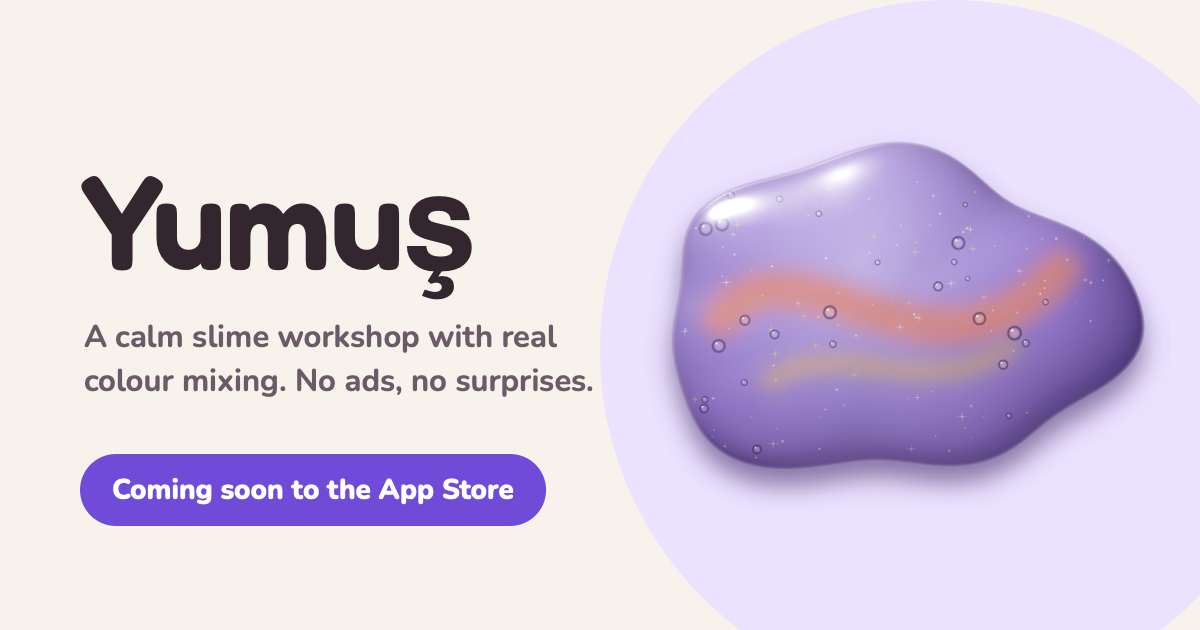
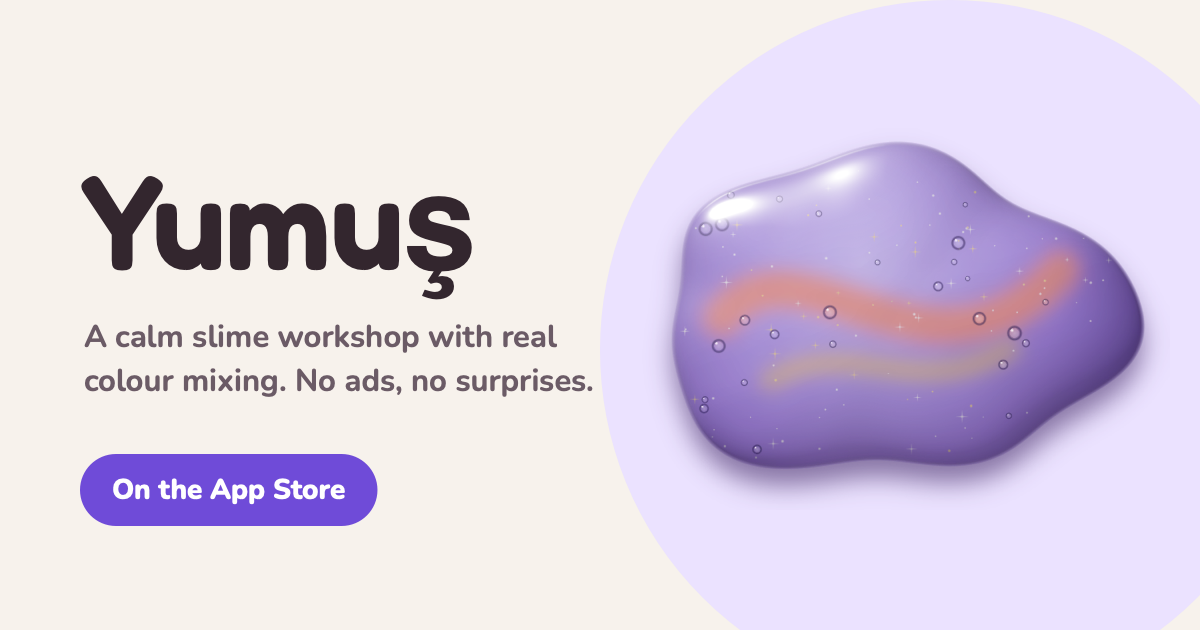
feat(site): App Store bağlantısı (Yumuş yayında), TestFlight notları kaldırıldı, OG rozeti

Changed region(s): [[0.0925, 0.6937, 0.4625, 0.8444]]

diff --git a/en/index.html b/en/index.html
@@ -6,7 +6,7 @@
 <meta http-equiv="Content-Security-Policy" content="default-src 'self'; script-src 'self'; img-src 'self' data:; style-src 'self'; font-src 'self'; base-uri 'self'; form-action 'none'">
 <meta name="referrer" content="no-referrer">
 <title>Yumuş · An ad-free slime workshop and calming toys</title>
-<meta name="description" content="Yumuş is a digital slime workshop where colours mix like real paint, plus eight calming mini games. No ads, no subscriptions, no data collection, and no internet required. Coming soon to the App Store.">
+<meta name="description" content="Yumuş is a digital slime workshop where colours mix like real paint, plus eight calming mini games. No ads, no subscriptions, no data collection, and no internet required. On the App Store.">
 <meta name="robots" content="index, follow">
 <meta name="theme-color" content="#F7F2EC">
 <meta name="color-scheme" content="light">
@@ -17,7 +17,7 @@
 <meta property="og:type" content="website">
 <meta property="og:site_name" content="Yumuş">
 <meta property="og:title" content="Yumuş · An ad-free slime workshop and calming toys">
-<meta property="og:description" content="Yumuş is a digital slime workshop where colours mix like real paint, plus eight calming mini games. No ads, no subscriptions, no data collection, and no internet required. Coming soon to the App Store.">
+<meta property="og:description" content="Yumuş is a digital slime workshop where colours mix like real paint, plus eight calming mini games. No ads, no subscriptions, no data collection, and no internet required. On the App Store.">
 <meta property="og:url" content="https://yumus.mm-apps.com/en/">
 <meta property="og:locale" content="en_US">
 <meta property="og:locale:alternate" content="tr_TR">
@@ -25,7 +25,7 @@
 <meta property="og:image:type" content="image/png">
 <meta property="og:image:width" content="1200">
 <meta property="og:image:height" content="630">
-<meta property="og:image:alt" content="Yumuş: a lilac slime and the words “Coming soon to the App Store”">
+<meta property="og:image:alt" content="Yumuş: a lilac slime and the words “On the App Store”">
 <meta name="twitter:card" content="summary_large_image">
 <link rel="icon" href="../favicon.svg" type="image/svg+xml">
 <link rel="icon" href="../favicon.png" type="image/png" sizes="48x48">
@@ -61,11 +61,8 @@
       <h1 id="hero-title" class="hero__title">Yumuş</h1>
       <p class="hero__promise">A digital slime workshop where colours mix like real paint and the slime responds like a real material.</p>
       <p class="hero__sub">No ads, no subscriptions, no data collection. No scores or timers, just the pleasure of touch.</p>
-      <div class="store-soon">
-        <svg class="icon" viewBox="0 0 24 24" aria-hidden="true" focusable="false"><circle cx="12" cy="12" r="8.5"/><path d="M12 7.5V12l3 2"/></svg>
-        <span class="store-soon__text"><span class="store-soon__small">Coming soon</span> <span class="store-soon__big">to the App Store</span></span>
-      </div>
-      <p class="hero__note">Currently in closed testing on TestFlight. The first release is in Turkish.</p>
+      <p class="hero__cta"><a class="pill pill--primary" href="https://apps.apple.com/app/id6829433720" rel="noopener">Download on the App Store</a></p>
+      <p class="hero__note">iPhone and iPad, iOS 26 or later. Free; Yumuş Plus is a one-time purchase.</p>
       <ul class="chip-row" aria-label="At a glance">
         <li class="chip">No ads</li>
         <li class="chip">No subscriptions</li>
@@ -349,7 +346,7 @@
     <ul class="plus-notes">
       <li>An adult confirms every purchase first.</li>
       <li>Family Sharing is included, and the purchase can always be restored.</li>
-      <li>The price will appear on the App Store, in your local currency, at launch.</li>
+      <li>The price is shown on the App Store in your local currency.</li>
     </ul>
   </div>
 </section>

diff --git a/index.html b/index.html
@@ -6,7 +6,7 @@
 <meta http-equiv="Content-Security-Policy" content="default-src 'self'; script-src 'self'; img-src 'self' data:; style-src 'self'; font-src 'self'; base-uri 'self'; form-action 'none'">
 <meta name="referrer" content="no-referrer">
 <title>Yumuş · Reklamsız slime atölyesi ve rahatlatıcı oyunlar</title>
-<meta name="description" content="Yumuş, renkleri gerçek boya gibi karışan bir dijital slime atölyesi ve sekiz sakinleştirici mini oyun sunar. Reklam, abonelik ve veri toplama içermez; internet gerektirmez. Yakında App Store'da.">
+<meta name="description" content="Yumuş, renkleri gerçek boya gibi karışan bir dijital slime atölyesi ve sekiz sakinleştirici mini oyun sunar. Reklam, abonelik ve veri toplama içermez; internet gerektirmez. App Store'da.">
 <meta name="robots" content="index, follow">
 <meta name="theme-color" content="#F7F2EC">
 <meta name="color-scheme" content="light">
@@ -17,7 +17,7 @@
 <meta property="og:type" content="website">
 <meta property="og:site_name" content="Yumuş">
 <meta property="og:title" content="Yumuş · Reklamsız slime atölyesi ve rahatlatıcı oyunlar">
-<meta property="og:description" content="Yumuş, renkleri gerçek boya gibi karışan bir dijital slime atölyesi ve sekiz sakinleştirici mini oyun sunar. Reklam, abonelik ve veri toplama içermez; internet gerektirmez. Yakında App Store'da.">
+<meta property="og:description" content="Yumuş, renkleri gerçek boya gibi karışan bir dijital slime atölyesi ve sekiz sakinleştirici mini oyun sunar. Reklam, abonelik ve veri toplama içermez; internet gerektirmez. App Store'da.">
 <meta property="og:url" content="https://yumus.mm-apps.com/">
 <meta property="og:locale" content="tr_TR">
 <meta property="og:locale:alternate" content="en_US">
@@ -25,7 +25,7 @@
 <meta property="og:image:type" content="image/png">
 <meta property="og:image:width" content="1200">
 <meta property="og:image:height" content="630">
-<meta property="og:image:alt" content="Yumuş: lila bir slime ve “Yakında App Store'da” yazısı">
+<meta property="og:image:alt" content="Yumuş: lila bir slime ve “App Store'da” yazısı">
 <meta name="twitter:card" content="summary_large_image">
 <link rel="icon" href="./favicon.svg" type="image/svg+xml">
 <link rel="icon" href="./favicon.png" type="image/png" sizes="48x48">
@@ -61,11 +61,8 @@
       <h1 id="hero-title" class="hero__title">Yumuş</h1>
       <p class="hero__promise">Renkleri gerçek boya gibi karışan, dokunuşa gerçek bir malzeme gibi karşılık veren dijital slime atölyesi.</p>
       <p class="hero__sub">Reklam, abonelik ve veri toplama yok. Puan ya da süre baskısı olmadan, yalnızca dokunmanın keyfi.</p>
-      <div class="store-soon">
-        <svg class="icon" viewBox="0 0 24 24" aria-hidden="true" focusable="false"><circle cx="12" cy="12" r="8.5"/><path d="M12 7.5V12l3 2"/></svg>
-        <span class="store-soon__text"><span class="store-soon__small">Yakında</span> <span class="store-soon__big">App Store'da</span></span>
-      </div>
-      <p class="hero__note">Şu anda TestFlight'ta kapalı test aşamasında.</p>
+      <p class="hero__cta"><a class="pill pill--primary" href="https://apps.apple.com/app/id6829433720" rel="noopener">App Store'dan indir</a></p>
+      <p class="hero__note">iPhone ve iPad, iOS 26 ve üstü. Ücretsiz; Yumuş Plus tek seferlik.</p>
       <ul class="chip-row" aria-label="Kısaca">
         <li class="chip">Reklam yok</li>
         <li class="chip">Abonelik yok</li>

diff --git a/src/pages/en/index.html b/src/pages/en/index.html
@@ -5,11 +5,8 @@
       <h1 id="hero-title" class="hero__title">{{app}}</h1>
       <p class="hero__promise">A digital slime workshop where colours mix like real paint and the slime responds like a real material.</p>
       <p class="hero__sub">No ads, no subscriptions, no data collection. No scores or timers, just the pleasure of touch.</p>
-      <div class="store-soon">
-        <svg class="icon" viewBox="0 0 24 24" aria-hidden="true" focusable="false"><circle cx="12" cy="12" r="8.5"/><path d="M12 7.5V12l3 2"/></svg>
-        <span class="store-soon__text"><span class="store-soon__small">Coming soon</span> <span class="store-soon__big">to the App Store</span></span>
-      </div>
-      <p class="hero__note">Currently in closed testing on TestFlight. The first release is in Turkish.</p>
+      <p class="hero__cta"><a class="pill pill--primary" href="{{store_url}}" rel="noopener">Download on the App Store</a></p>
+      <p class="hero__note">iPhone and iPad, iOS 26 or later. Free; {{plus}} is a one-time purchase.</p>
       <ul class="chip-row" aria-label="At a glance">
         <li class="chip">No ads</li>
         <li class="chip">No subscriptions</li>
@@ -293,7 +290,7 @@
     <ul class="plus-notes">
       <li>An adult confirms every purchase first.</li>
       <li>Family Sharing is included, and the purchase can always be restored.</li>
-      <li>The price will appear on the App Store, in your local currency, at launch.</li>
+      <li>The price is shown on the App Store in your local currency.</li>
     </ul>
   </div>
 </section>

diff --git a/en/support/index.html b/en/support/index.html
@@ -25,7 +25,7 @@
 <meta property="og:image:type" content="image/png">
 <meta property="og:image:width" content="1200">
 <meta property="og:image:height" content="630">
-<meta property="og:image:alt" content="Yumuş: a lilac slime and the words “Coming soon to the App Store”">
+<meta property="og:image:alt" content="Yumuş: a lilac slime and the words “On the App Store”">
 <meta name="twitter:card" content="summary_large_image">
 <link rel="icon" href="../../favicon.svg" type="image/svg+xml">
 <link rel="icon" href="../../favicon.png" type="image/png" sizes="48x48">
@@ -127,9 +127,9 @@
     </details>
 
     <details>
-      <summary>Which devices does it run on? When is it coming out?</summary>
+      <summary>Which devices does it run on?</summary>
       <div class="faq__answer">
-        <p>Yumuş runs on iPhone and iPad with iOS 26 or later. It is currently being tested on TestFlight; once it is on the App Store, the link will be on this site.</p>
+        <p>Yumuş runs on iPhone and iPad with iOS 26 or later. It is available <a href="https://apps.apple.com/app/id6829433720" rel="noopener">on the App Store</a>.</p>
       </div>
     </details>
   </div>

diff --git a/destek/index.html b/destek/index.html
@@ -25,7 +25,7 @@
 <meta property="og:image:type" content="image/png">
 <meta property="og:image:width" content="1200">
 <meta property="og:image:height" content="630">
-<meta property="og:image:alt" content="Yumuş: lila bir slime ve “Yakında App Store'da” yazısı">
+<meta property="og:image:alt" content="Yumuş: lila bir slime ve “App Store'da” yazısı">
 <meta name="twitter:card" content="summary_large_image">
 <link rel="icon" href="../favicon.svg" type="image/svg+xml">
 <link rel="icon" href="../favicon.png" type="image/png" sizes="48x48">
@@ -126,9 +126,9 @@
     </details>
 
     <details>
-      <summary>Hangi cihazlarda çalışır? Ne zaman çıkıyor?</summary>
+      <summary>Hangi cihazlarda çalışır?</summary>
       <div class="faq__answer">
-        <p>Yumuş, iOS 26 ya da üstü olan iPhone ve iPad'lerde çalışır. Şu an TestFlight'ta test ediliyor; App Store'a çıktığında bağlantısı bu sitede olacak.</p>
+        <p>Yumuş, iOS 26 ya da üstü olan iPhone ve iPad'lerde çalışır. <a href="https://apps.apple.com/app/id6829433720" rel="noopener">App Store'dan</a> indirilebilir.</p>
       </div>
     </details>
   </div>

diff --git a/src/pages/tr/index.html b/src/pages/tr/index.html
@@ -5,11 +5,8 @@
       <h1 id="hero-title" class="hero__title">{{app}}</h1>
       <p class="hero__promise">Renkleri gerçek boya gibi karışan, dokunuşa gerçek bir malzeme gibi karşılık veren dijital slime atölyesi.</p>
       <p class="hero__sub">Reklam, abonelik ve veri toplama yok. Puan ya da süre baskısı olmadan, yalnızca dokunmanın keyfi.</p>
-      <div class="store-soon">
-        <svg class="icon" viewBox="0 0 24 24" aria-hidden="true" focusable="false"><circle cx="12" cy="12" r="8.5"/><path d="M12 7.5V12l3 2"/></svg>
-        <span class="store-soon__text"><span class="store-soon__small">Yakında</span> <span class="store-soon__big">App Store'da</span></span>
-      </div>
-      <p class="hero__note">Şu anda TestFlight'ta kapalı test aşamasında.</p>
+      <p class="hero__cta"><a class="pill pill--primary" href="{{store_url}}" rel="noopener">App Store'dan indir</a></p>
+      <p class="hero__note">iPhone ve iPad, iOS 26 ve üstü. Ücretsiz; {{plus}} tek seferlik.</p>
       <ul class="chip-row" aria-label="Kısaca">
         <li class="chip">Reklam yok</li>
         <li class="chip">Abonelik yok</li>

diff --git a/assets/css/site.css b/assets/css/site.css
@@ -397,42 +397,8 @@ main:focus {
   font-size: 1.125rem;
 }
 
-.store-soon {
-  display: inline-flex;
-  align-items: center;
-  gap: 12px;
-  min-height: 62px;
+.hero__cta {
   margin-top: 28px;
-  padding: 10px 26px 10px 18px;
-  border-radius: var(--pill);
-  background: var(--ink);
-  box-shadow: 0 16px 28px -14px rgba(51, 38, 46, 0.55), inset 0 2px 0 rgba(255, 255, 255, 0.14);
-  color: #FFFFFF;
-}
-
-.store-soon .icon {
-  width: 28px;
-  height: 28px;
-  flex-shrink: 0;
-}
-
-.store-soon__text {
-  display: flex;
-  flex-direction: column;
-  line-height: 1.15;
-}
-
-.store-soon__small {
-  font-size: 0.75rem;
-  font-weight: 800;
-  letter-spacing: 0.08em;
-  text-transform: uppercase;
-}
-
-.store-soon__big {
-  font-family: var(--font-heading);
-  font-size: 1.3125rem;
-  font-weight: 600;
 }
 
 .hero__note {

diff --git a/src/pages/tr/destek.html b/src/pages/tr/destek.html
@@ -70,9 +70,9 @@
     </details>
 
     <details>
-      <summary>Hangi cihazlarda çalışır? Ne zaman çıkıyor?</summary>
+      <summary>Hangi cihazlarda çalışır?</summary>
       <div class="faq__answer">
-        <p>{{app}}, iOS 26 ya da üstü olan iPhone ve iPad'lerde çalışır. Şu an TestFlight'ta test ediliyor; App Store'a çıktığında bağlantısı bu sitede olacak.</p>
+        <p>{{app}}, iOS 26 ya da üstü olan iPhone ve iPad'lerde çalışır. <a href="{{store_url}}" rel="noopener">App Store'dan</a> indirilebilir.</p>
       </div>
     </details>
   </div>

diff --git a/en/privacy/index.html b/en/privacy/index.html
@@ -25,7 +25,7 @@
 <meta property="og:image:type" content="image/png">
 <meta property="og:image:width" content="1200">
 <meta property="og:image:height" content="630">
-<meta property="og:image:alt" content="Yumuş: a lilac slime and the words “Coming soon to the App Store”">
+<meta property="og:image:alt" content="Yumuş: a lilac slime and the words “On the App Store”">
 <meta name="twitter:card" content="summary_large_image">
 <link rel="icon" href="../../favicon.svg" type="image/svg+xml">
 <link rel="icon" href="../../favicon.png" type="image/png" sizes="48x48">

diff --git a/src/pages/en/support.html b/src/pages/en/support.html
@@ -71,9 +71,9 @@
     </details>
 
     <details>
-      <summary>Which devices does it run on? When is it coming out?</summary>
+      <summary>Which devices does it run on?</summary>
       <div class="faq__answer">
-        <p>{{app}} runs on iPhone and iPad with iOS 26 or later. It is currently being tested on TestFlight; once it is on the App Store, the link will be on this site.</p>
+        <p>{{app}} runs on iPhone and iPad with iOS 26 or later. It is available <a href="{{store_url}}" rel="noopener">on the App Store</a>.</p>
       </div>
     </details>
   </div>

diff --git a/gizlilik/index.html b/gizlilik/index.html
@@ -25,7 +25,7 @@
 <meta property="og:image:type" content="image/png">
 <meta property="og:image:width" content="1200">
 <meta property="og:image:height" content="630">
-<meta property="og:image:alt" content="Yumuş: lila bir slime ve “Yakında App Store'da” yazısı">
+<meta property="og:image:alt" content="Yumuş: lila bir slime ve “App Store'da” yazısı">
 <meta name="twitter:card" content="summary_large_image">
 <link rel="icon" href="../favicon.svg" type="image/svg+xml">
 <link rel="icon" href="../favicon.png" type="image/png" sizes="48x48">

diff --git a/README.md b/README.md
@@ -71,11 +71,10 @@ iPhone görünümü için simülatörde: `xcrun simctl openurl booted http://loc
 
 Not: site özel alan adının kökünde (`yumus.mm-apps.com`) yayınlandığı için `robots.txt` ve `sitemap.xml` doğrudan geçerlidir.
 
-## App Store'a çıkış günü
+## App Store
 
-- `src/pages/*/index.html` içindeki "Yakında App Store'da" kutusunu App Store bağlantısına çevirin (Apple'ın resmî rozetini kullanacaksanız Apple Marketing Resources'tan indirip `assets/img/` altına koyun, siteden sunun).
-- Destek sayfasındaki "Ne zaman çıkıyor?" cevabını ve iki dildeki "TestFlight'ta test ediliyor" notlarını güncelleyin.
-- Fiyatı sitede yazmak isterseniz Plus bölümündeki "Fiyat App Store'da görünecek" notunu değiştirin.
+Yumuş App Store'da (<https://apps.apple.com/app/id6829433720>; adres `src/site.json` → `shared.store_url`). Ana sayfa
+ve destek sayfası bu bağlantıyı kullanır; paylaşım görsellerindeki rozet `coming_soon` metninden gelir (`swift tools/og-image.swift`).
 
 ## Kurallar
 
